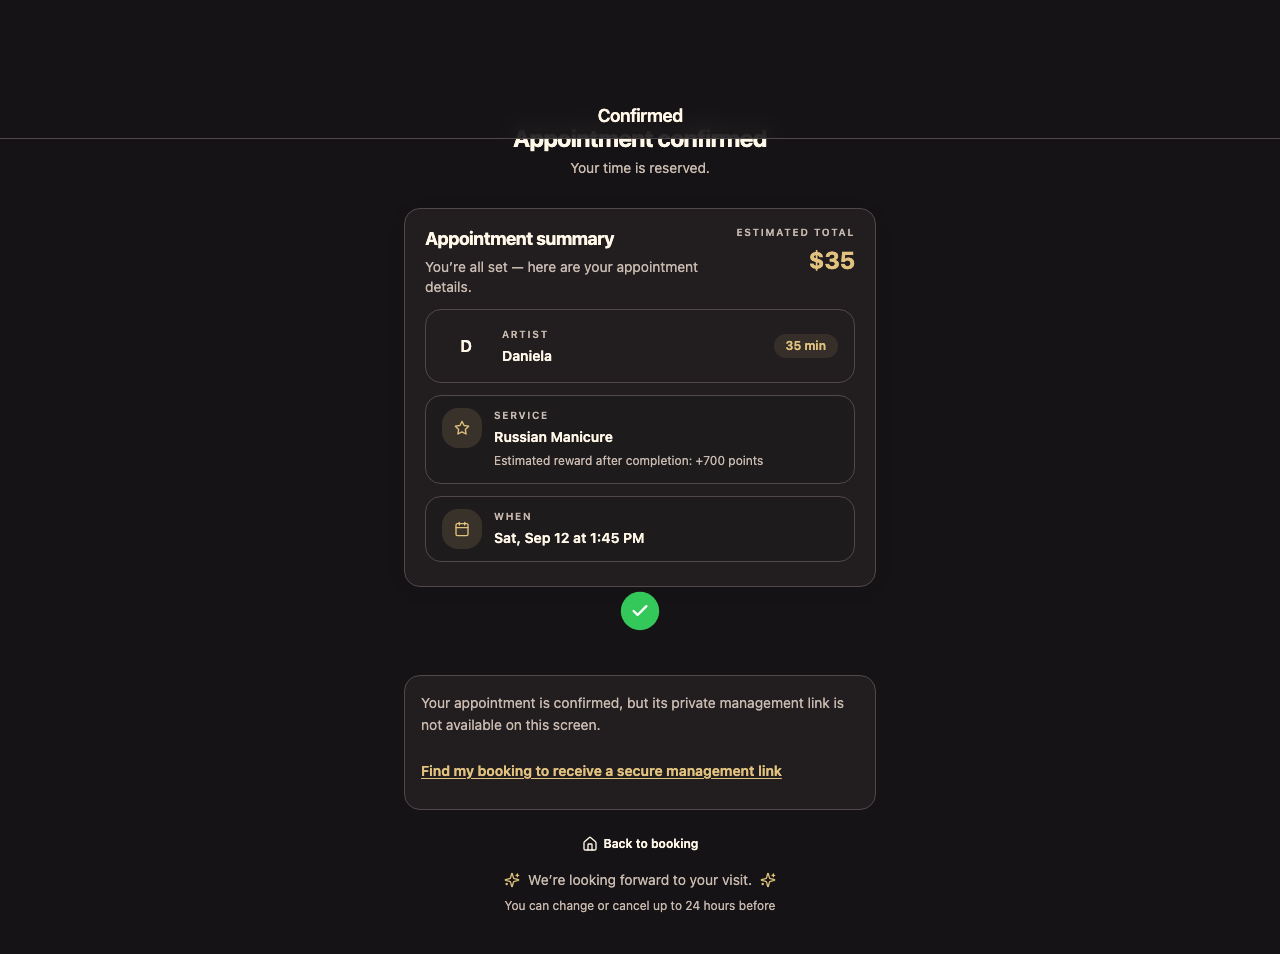
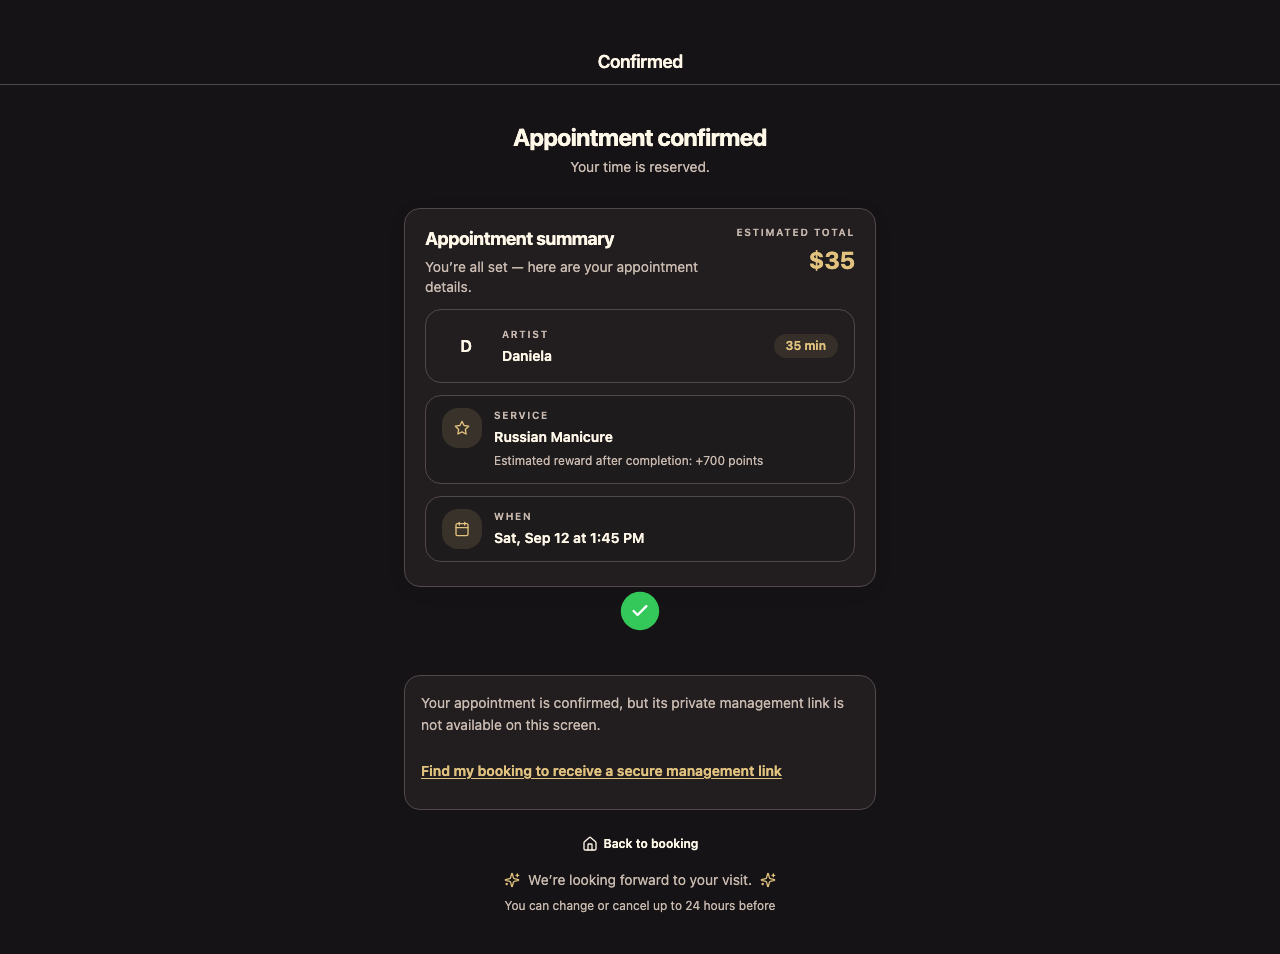
test(booking): finalize palette review evidence

Changed region(s): [[0.4062, 0.0608, 0.5938, 0.1824]]

diff --git a/tests/browser/booking-theme/appearance.spec.ts b/tests/browser/booking-theme/appearance.spec.ts
@@ -113,5 +113,11 @@ test('the confirmed receipt retains the chosen palette', async ({ page }, testIn
   await expect(page.getByRole('heading', { name: 'Appointment confirmed' })).toHaveCSS('color', 'rgb(255, 247, 232)');
   await expect(page.locator('[data-customer-booking-theme]')).toHaveAttribute('data-customer-site-palette', 'black_champagne');
 
+  // Full-page WebKit captures retain the fixed header at the current scroll
+  // offset. Start at the top so review evidence shows its actual placement.
+  await page.evaluate(() => window.scrollTo(0, 0));
+
+  await expect.poll(() => page.evaluate(() => window.scrollY)).toBe(0);
+
   await page.screenshot({ path: testInfo.outputPath('black-champagne-receipt.png'), fullPage: true, animations: 'disabled' });
 });

diff --git a/docs/owner-review/booking-theme-continuity/README.md b/docs/owner-review/booking-theme-continuity/README.md
@@ -55,7 +55,7 @@ the fixture can advance from an empty Saturday to Monday because Sunday is close
 
 ## Checks
 
-- Focused initial run: 182 tests passed. Additional shell coverage: 24 passed.
+- `npm run test`: 183 tests passed (including 24 shell tests).
 - Affected dependency suite: 863 passed, 10 skipped; the skipped PostgreSQL
   lifecycle concurrency lane needs a separately attested disposable database.
 - Appointment regression: 103 passed.
@@ -66,7 +66,7 @@ the fixture can advance from an empty Saturday to Monday because Sunday is close
 - `npm run check-types`: passed using approved non-secret CI placeholders.
   Initial runs without explicit environment configuration were rejected by the
   repository guard; no guard was bypassed.
-- Focused ESLint: no errors; existing confirmation Fast Refresh warnings and
+- `npm run lint` and focused ESLint: no errors; existing confirmation Fast Refresh warnings and
   fixture-only lint warnings remain.
 - Secret leak scan and `git diff --check`: passed.
 
